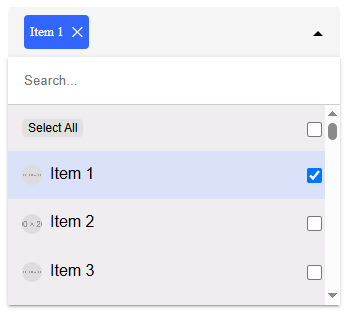
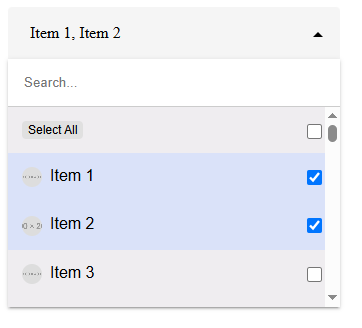
Refactor custom select component: simplify selected items display and enhance label handling

diff --git a/src/app/shared/custom-select/custom-select.component.html b/src/app/shared/custom-select/custom-select.component.html
@@ -1,58 +1,50 @@
 <div class="custom-select-container" [class.open]="dropdownOpen">
-    <div class="custom-select-value" #labelContainer (click)="toggleDropdown()">
-      <div class="selected-items">
-        <ng-container *ngIf="displaySelectedItems.length > 0; else noSelection">
-          <span *ngFor="let wrapper of displaySelectedItems" class="selected-item"
-            [class.hidden-count]="wrapper.hidden">
-            {{ wrapper.item[labelField] }}
-            <button *ngIf="!wrapper.hidden" type="button" class="remove-btn"
-              (click)="removeSelected(wrapper.item, $event)">
-              ✕
-            </button>
-          </span>
-
-        </ng-container>
-        <ng-template #noSelection>
-          <span class="custom_select_placeholder">{{ placeholder }}</span>
-        </ng-template>
-      </div>
-      <span class="arrow" [class.open]="dropdownOpen">
-        <svg viewBox="0 0 24 24" width="24px" height="24px" focusable="false" aria-hidden="true">
-          <path d="M7 10l5 5 5-5z"></path>
-        </svg>
-      </span>
-
+  <div class="custom-select-value" #labelContainer (click)="toggleDropdown()">
+    <div class="selected-items">
+      <ng-container *ngIf="displaySelectedItems.length > 0; else noSelection">
+        <span class="selected-item-list">
+          {{ getSelectedLabels() }}
+        </span>
+      </ng-container>
+      <ng-template #noSelection>
+        <span class="custom_select_placeholder">{{ placeholder }}</span>
+      </ng-template>
     </div>
-    <div class="custom_select_dropdown" *ngIf="dropdownOpen">
-      <input *ngIf="config.searchable !== false" type="text" [(ngModel)]="searchTerm" (click)="$event.stopPropagation()"
-        (input)="filterOptions()" placeholder="Search..." id="search_filed" autocomplete="off" />
-      <ul (scroll)="onScroll($event)">
-        <li *ngIf="config.multiple && this.visibleOptions.length != 0 && config.selectAllButton !== false"
-          class="select-actions" (click)="areAllSelected() ? unselectAll() : selectAll()">
-          <input type="checkbox" [checked]="this.selectedValues.length === this.options.length" name="checkbox_all"
-            class="checkbox_select" />
-          <button type="button">
-            {{ areAllSelected() ? 'UnSelect All' : 'Select All' }}
-          </button>
-        </li>
+    <span class="arrow" [class.open]="dropdownOpen">
+      <svg viewBox="0 0 24 24" width="24px" height="24px" focusable="false" aria-hidden="true">
+        <path d="M7 10l5 5 5-5z"></path>
+      </svg>
+    </span>
 
+  </div>
+  <div class="custom_select_dropdown" *ngIf="dropdownOpen">
+    <input *ngIf="config.searchable !== false" type="text" [(ngModel)]="searchTerm" (click)="$event.stopPropagation()"
+      (input)="filterOptions()" placeholder="Search..." id="search_filed" autocomplete="off" />
+    <ul (scroll)="onScroll($event)">
+      <li *ngIf="config.multiple && this.visibleOptions.length != 0 && config.selectAllButton !== false"
+        class="select-actions" (click)="areAllSelected() ? unselectAll() : selectAll()">
+        <input type="checkbox" [checked]="this.selectedValues.length === this.options.length" name="checkbox_all"
+          class="checkbox_select" />
+        <button type="button">
+          {{ areAllSelected() ? 'UnSelect All' : 'Select All' }}
+        </button>
+      </li>
 
-        <li *ngFor="let item of visibleOptions" (click)="selectItem(item)" class="item" [class.selected]="config.multiple
+      <li *ngFor="let item of visibleOptions" (click)="selectItem(item)" class="item" [class.selected]="config.multiple
         ? selectedValues.includes(item[valueField])
         : item[valueField] === selectedValue
       ">
+        <img *ngIf="item[imageField]" [src]="item[imageField]" class="select-item-image" alt="item" />
+        <span class="labelField">{{ item[labelField] }}</span>
+        <ng-container *ngIf="config.multiple">
+          <input type="checkbox" [checked]="selectedValues.includes(item[valueField])" name="checkbox"
+            class="checkbox_select" />
+        </ng-container>
+      </li>
+      <div *ngIf="this.visibleOptions.length === 0" class="no-results-container">
+        <span class="no-results">No results found</span>
+      </div>
 
-          <img *ngIf="item[imageField]" [src]="item[imageField]" class="select-item-image" alt="item" />
-          <span class="labelField">{{ item[labelField] }}</span>
-          <ng-container *ngIf="config.multiple">
-            <input type="checkbox" [checked]="selectedValues.includes(item[valueField])" name="checkbox"
-              class="checkbox_select" />
-          </ng-container>
-        </li>
-        <div *ngIf="this.visibleOptions.length === 0" class="no-results-container">
-          <span class="no-results">No results found</span>
-        </div>
-
-      </ul>
-    </div>
+    </ul>
   </div>
+</div>

diff --git a/src/app/shared/custom-select/custom-select.component.ts b/src/app/shared/custom-select/custom-select.component.ts
@@ -214,7 +214,18 @@ export class CustomSelectComponent {
     this.onSelectItem.emit([]);
   }
 
-  get displaySelectedItems(): { item: any, hidden: boolean }[] {
+  getSelectedLabels() {
+    const items = this.displaySelectedItems;
+    if (Array.isArray(items)) {
+      return items
+        .map((wrapper: { item: any, hidden: boolean }) => wrapper?.item?.[this.labelField])
+        .filter(label => label !== undefined && label !== null)
+        .join(', ');
+    }
+    return typeof items === 'string' ? items : '';
+  }
+
+  get displaySelectedItems(): { item: any, hidden: boolean }[] | string {
     if (!this.config.multiple) {
       const selected = this.options.find(
         o => o[this.valueField] === this.selectedValue
@@ -226,38 +237,15 @@ export class CustomSelectComponent {
       this.selectedValues.includes(o[this.valueField])
     );
 
-    if (!this.containerWidth || selectedItems.length === 0) {
-      return [];
-    }
-
-    const avgCharWidth = 8;
-    const labelPadding = 16;
-
-    let usedWidth = 0;
-    let result: { item: any; hidden: boolean }[] = [];
-
-    for (const item of selectedItems) {
-      const label = item[this.labelField];
-      const labelWidth = label.length * avgCharWidth + labelPadding;
-
-      if (usedWidth + labelWidth > this.containerWidth - 50) {
-        break;
-      }
-
-      result.push({ item, hidden: false });
-      usedWidth += labelWidth;
-    }
-
-    const hiddenCount = selectedItems.length - result.length;
+    const maxLabels = this.options.length;
+    const shownLabels = selectedItems.slice(0, maxLabels).map(o => o[this.labelField]);
+    const hiddenCount = selectedItems.length - maxLabels;
 
     if (hiddenCount > 0) {
-      result.push({
-        item: { [this.labelField]: `+${hiddenCount}` },
-        hidden: true
-      });
+      return `${shownLabels.join(', ')}`;
+    } else {
+      return shownLabels.join(', ') || this.placeholder;
     }
-
-    return result;
   }
 
   emitSelectedItems() {

diff --git a/src/app/shared/custom-select/custom-select.component.css b/src/app/shared/custom-select/custom-select.component.css
@@ -18,33 +18,7 @@
 }
 
 #search_filed:focus-visible {
-    outline: none;
-}
-
-.selected-items .selected-item {
-  background-color: #3366ff;
-  color: white;
-  padding: 9px 6px;
-  border-radius: 4px;
-  font-size: 13px;
-  display: flex;
-  align-items: center;
-  gap: 4px;
-}
-
-.selected-items .selected-item.hidden-count {
-  font-weight: bold;
-}
-
-.selected-items .selected-item .remove-btn {
-  background: transparent;
-  border: none;
-  cursor: pointer;
-  font-size: 14px;
-  padding: 0;
-  margin-left: 4px;
-  line-height: 1;
-  color: white;
+  outline: none;
 }
 
 .selected-items .custom_select_placeholder {
@@ -143,14 +117,24 @@
   right: 0;
   width: 15px;
   height: 15px;
+  margin: 3px 3px 3px 4px;
 }
+
 .no-results-container {
   padding: 16px;
   text-align: center;
   color: #888;
 }
+
 .no-results {
   font-size: 14px;
   font-weight: bold;
   color: #44474e;
+}
+
+.selected-item-list {
+  white-space: nowrap;
+  overflow: hidden;
+  text-overflow: ellipsis;
+  padding: 9px 6px;
 }
